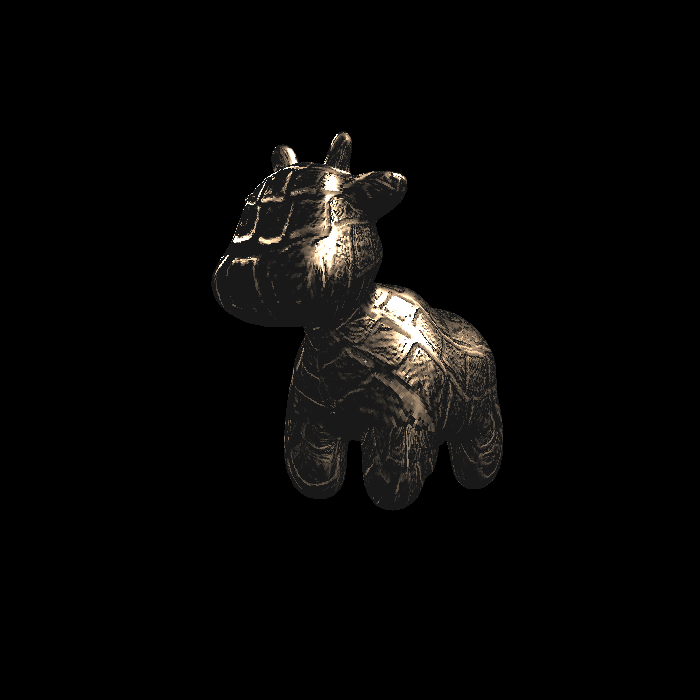
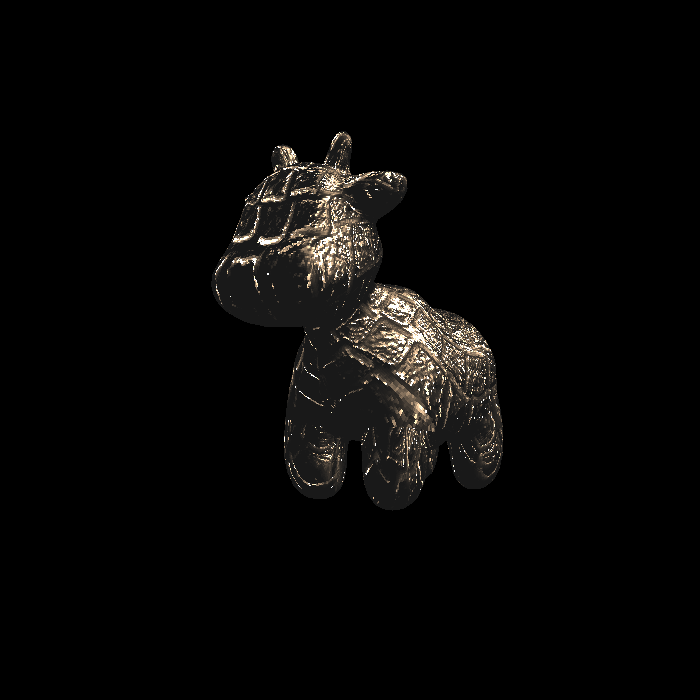
Fix bugs in hw3

diff --git a/hw3/main.cpp b/hw3/main.cpp
@@ -182,20 +182,22 @@ Eigen::Vector3f displacement_fragment_shader(const fragment_shader_payload& payl
   float kh = 0.2, kn = 0.1;
 
   float x = normal.x(), y = normal.y(), z = normal.z();
-  float u = payload.tex_coords[0], v = payload.tex_coords[1];
+  float u = payload.tex_coords.x(), v = payload.tex_coords.y();
   float w = payload.texture->width, h = payload.texture->height;
 
   Eigen::Vector3f t(x * y / sqrt(x * x + z * z), sqrt(x * x + z * z), z * y / sqrt(x * x + z * z));
   Eigen::Vector3f b = normal.cross(t);
   Eigen::Matrix3f TBN;
-  TBN << t, b, normal;
+  TBN << t.normalized(), b.normalized(), normal;
 
-  float dU = kh * kn * (payload.texture->getColor(u + 1.0 / w, v).norm() - payload.texture->getColor(u, v).norm());
-  float dV = kh * kn * (payload.texture->getColor(u, v + 1.0 / h).norm() - payload.texture->getColor(u, v).norm());
+  auto huv = payload.texture->getColor(u, v).norm();
+  float dU = kh * kn * (payload.texture->getColor(u + 1.0f / w, v).norm() - huv);
+  float dV = kh * kn * (payload.texture->getColor(u, v + 1.0f / h).norm() - huv);
 
-  Eigen::Vector3f ln = Eigen::Vector3f(-dU, -dV, 1.0);
-  point += kn * payload.texture->getColor(u, v).norm() * normal;
-  normal = (TBN * ln).normalized();
+  Eigen::Vector3f ln(-dU, -dV, 1.0f);
+  auto n = (TBN * ln).normalized();
+  point += kn * huv * n;
+  //point += normal * huv * kn;
 
   Eigen::Vector3f result_color = {0, 0, 0};
 
